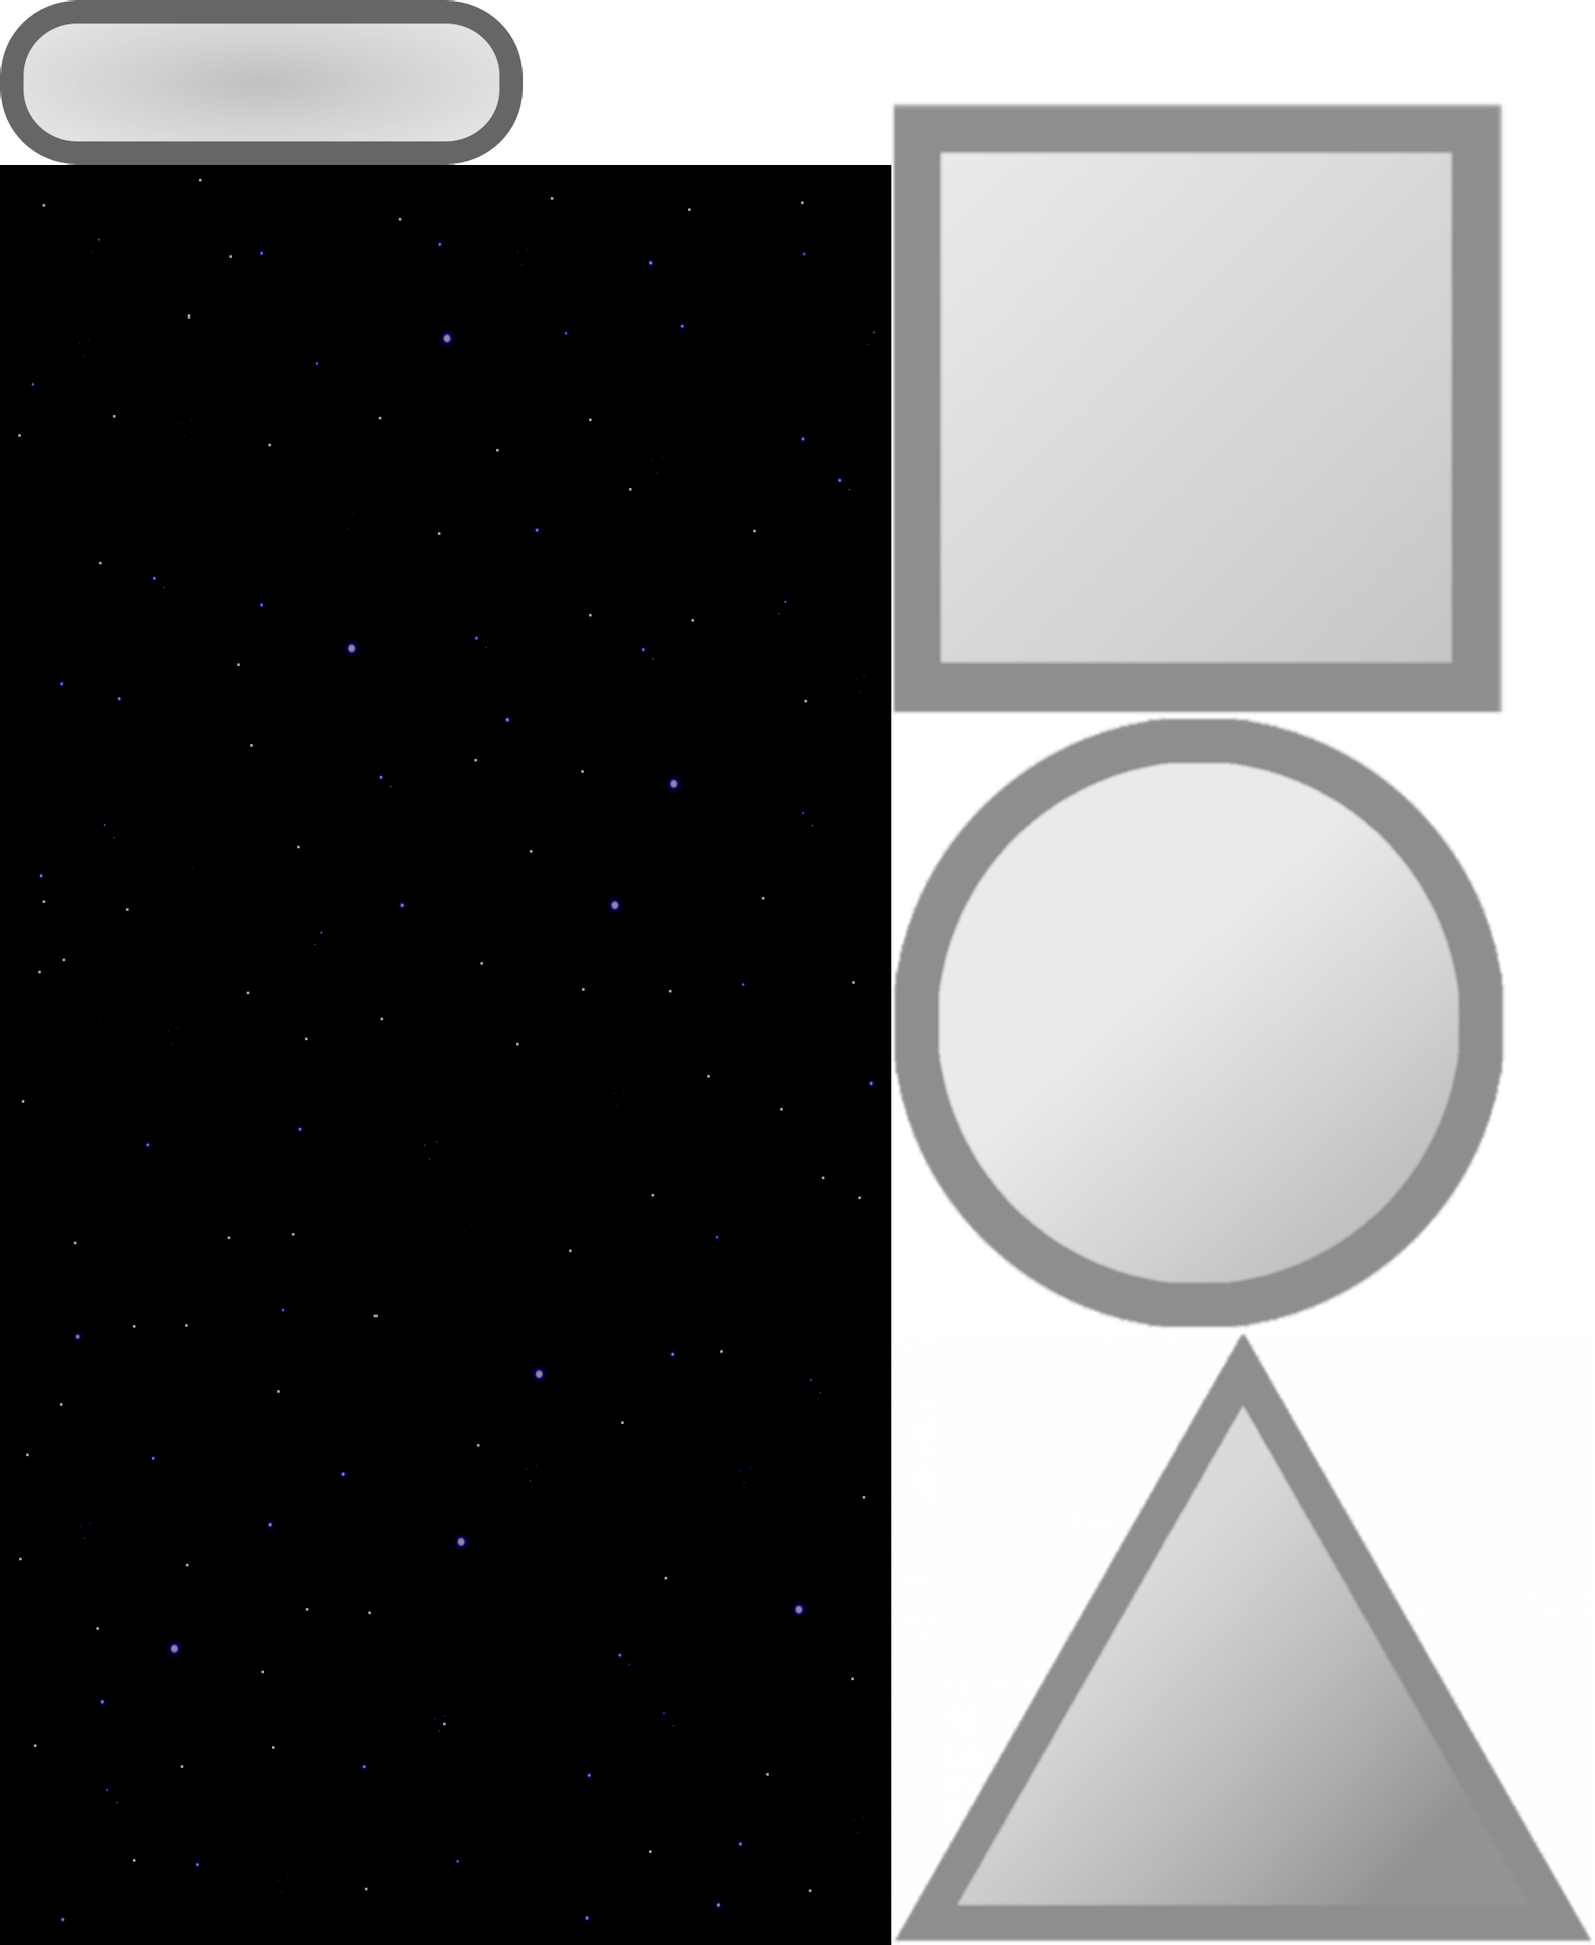
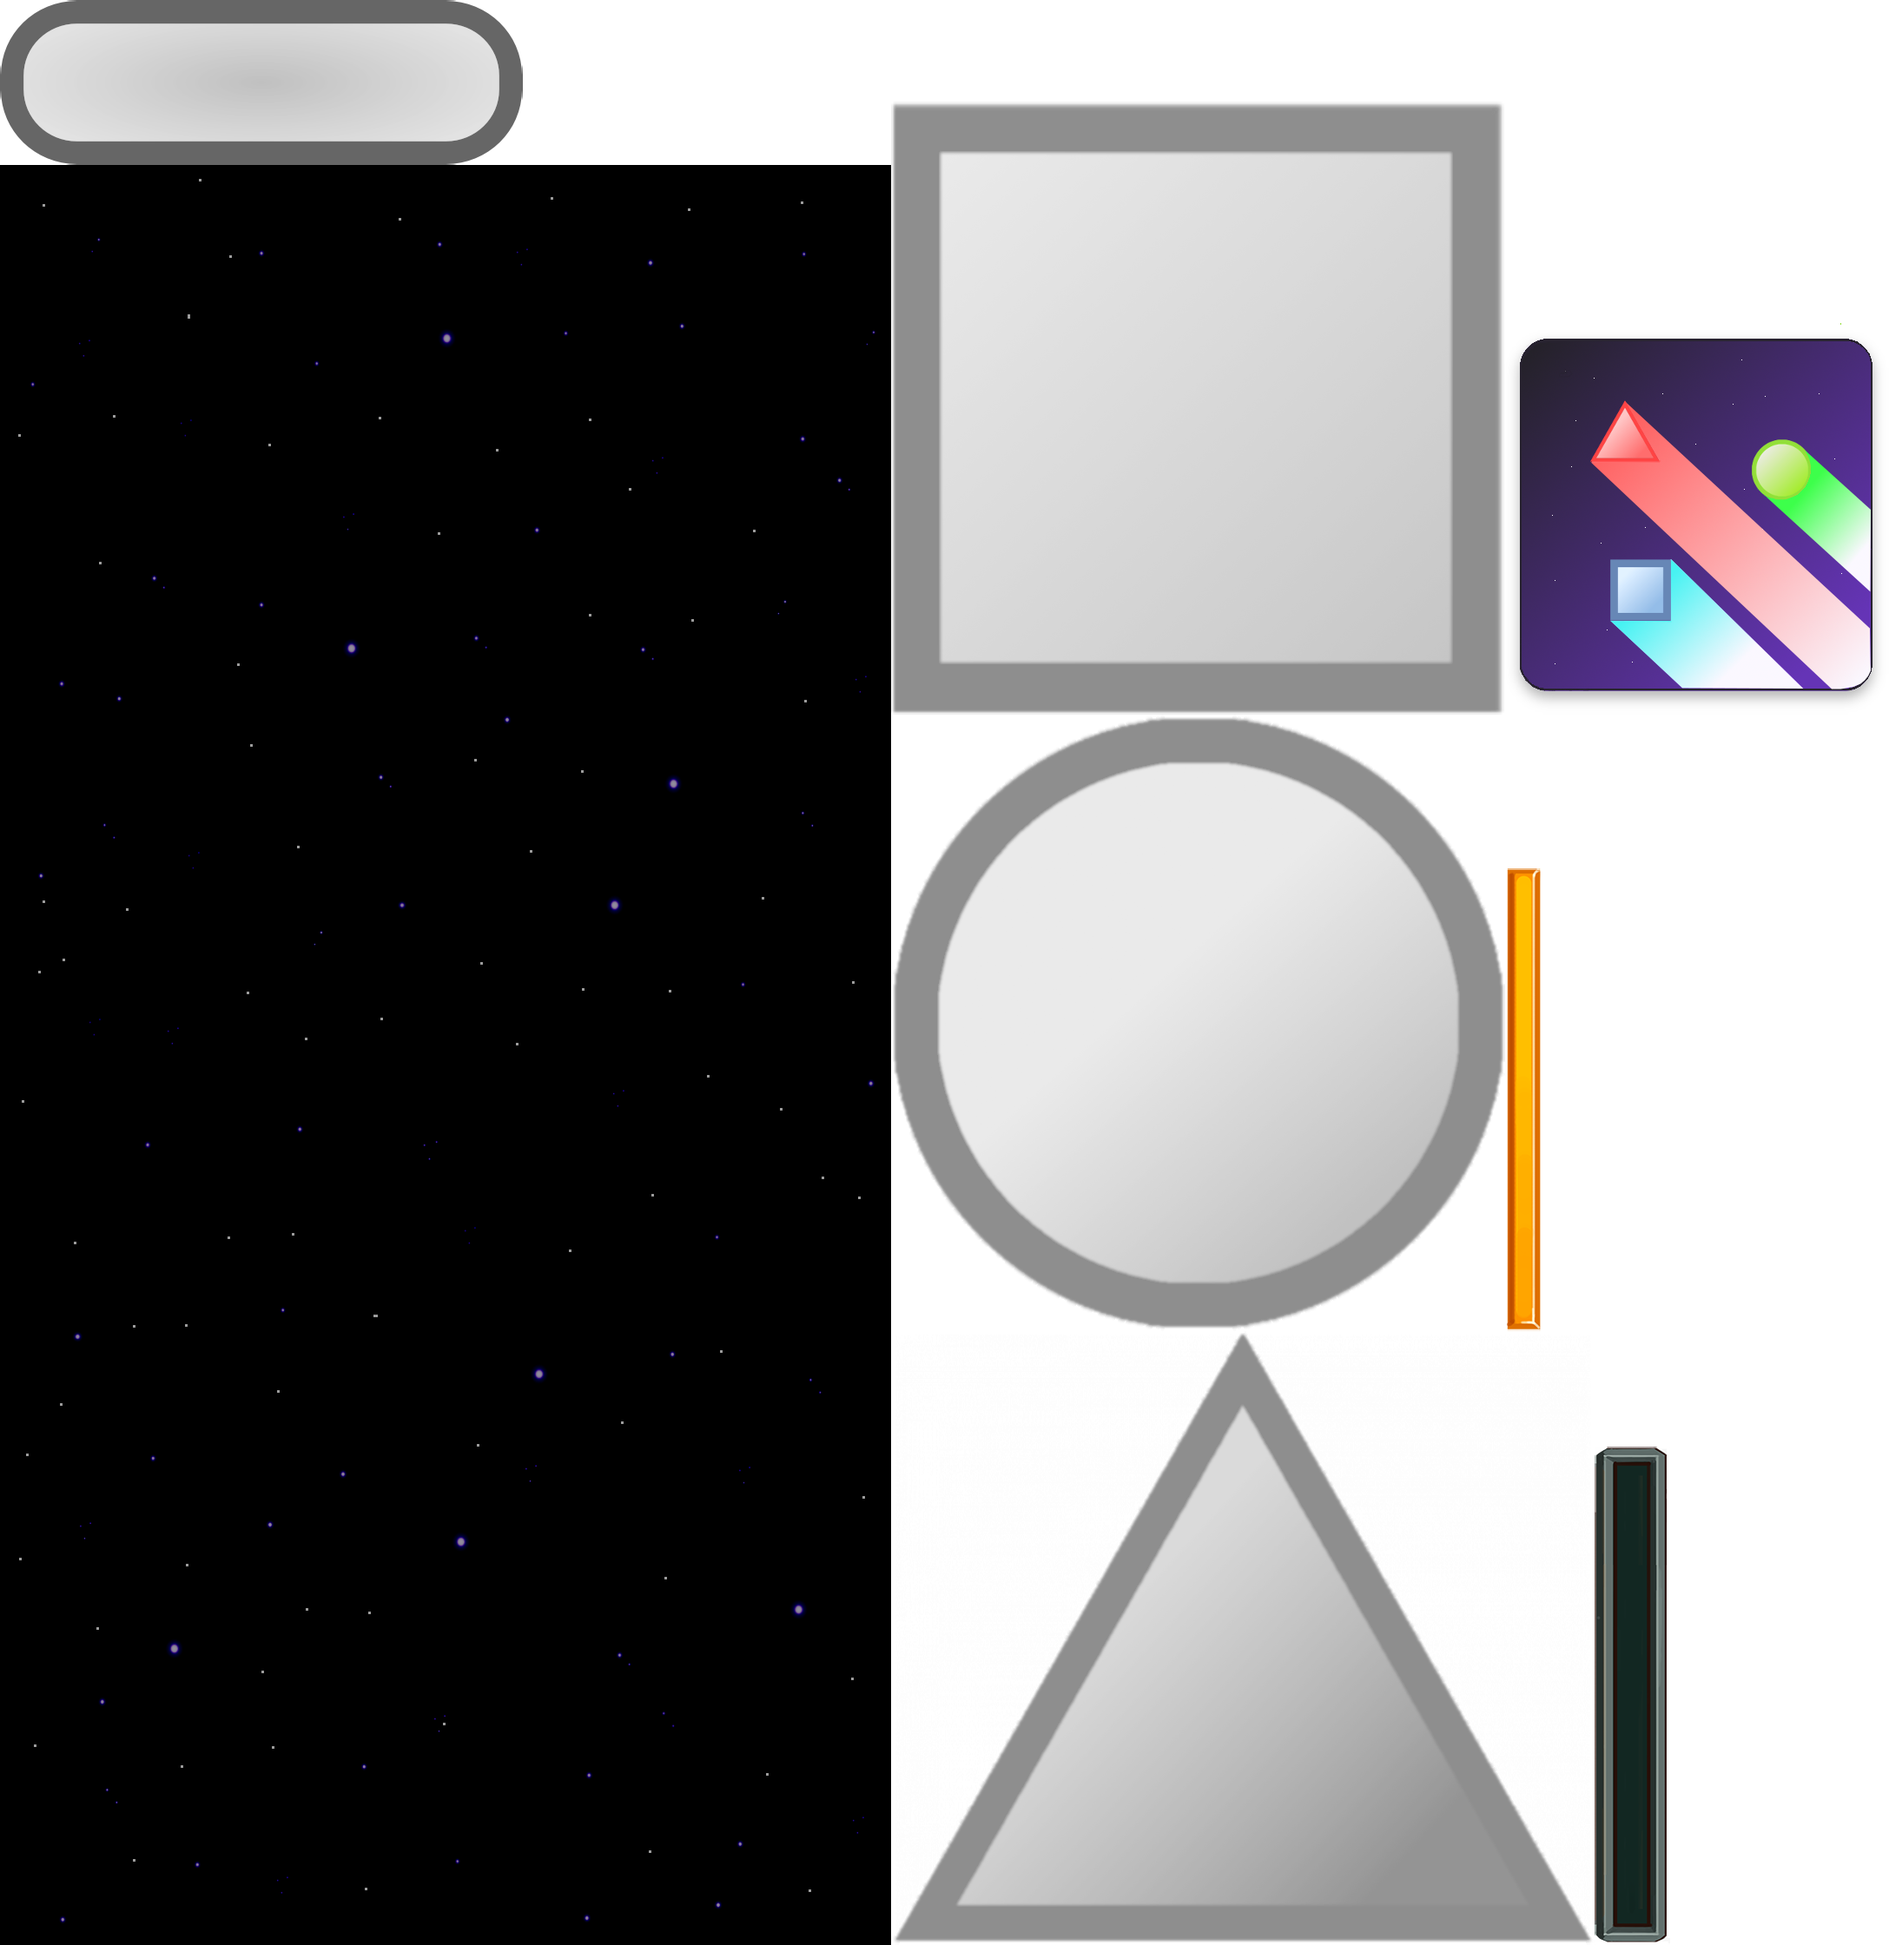
Added new assets and repacked textures

diff --git a/core/src/durianhln/polymorph/gameobject/Polymorph.java b/core/src/durianhln/polymorph/gameobject/Polymorph.java
@@ -7,8 +7,6 @@ import com.badlogic.gdx.audio.Sound;
 import com.badlogic.gdx.graphics.g2d.TextureAtlas;
 import com.badlogic.gdx.scenes.scene2d.ui.Skin;
 
-import durianhln.polymorph.game.PolyGame;
-import durianhln.polymorph.screen.GameScreen;
 import durianhln.polymorph.screen.Splash;
 
 public class Polymorph extends Game {
@@ -18,7 +16,6 @@ public class Polymorph extends Game {
     public final static String GOOD_PATH = "music/match.mp3";
     public final static String HALF_PATH = "music/halfmatch.mp3";
     public final static String BAD_PATH = "music/fail.mp3";
-    public static final String SPLASH_PATH = "splash.png";
 
     private AssetManager assetManager;
 

diff --git a/core/src/durianhln/polymorph/screen/Splash.java b/core/src/durianhln/polymorph/screen/Splash.java
@@ -4,7 +4,6 @@ import java.awt.Dimension;
 
 import com.badlogic.gdx.Gdx;
 import com.badlogic.gdx.Screen;
-import com.badlogic.gdx.assets.AssetManager;
 import com.badlogic.gdx.graphics.Texture;
 import com.badlogic.gdx.graphics.g2d.BitmapFont;
 import com.badlogic.gdx.graphics.g2d.SpriteBatch;
@@ -37,7 +36,7 @@ public class Splash implements Screen {
     public void show() {
         // TODO Auto-generated method stub
         batch = new SpriteBatch();
-        splash = new Texture(Gdx.files.internal(Polymorph.SPLASH_PATH));
+        splash = null;
 
     }
 
